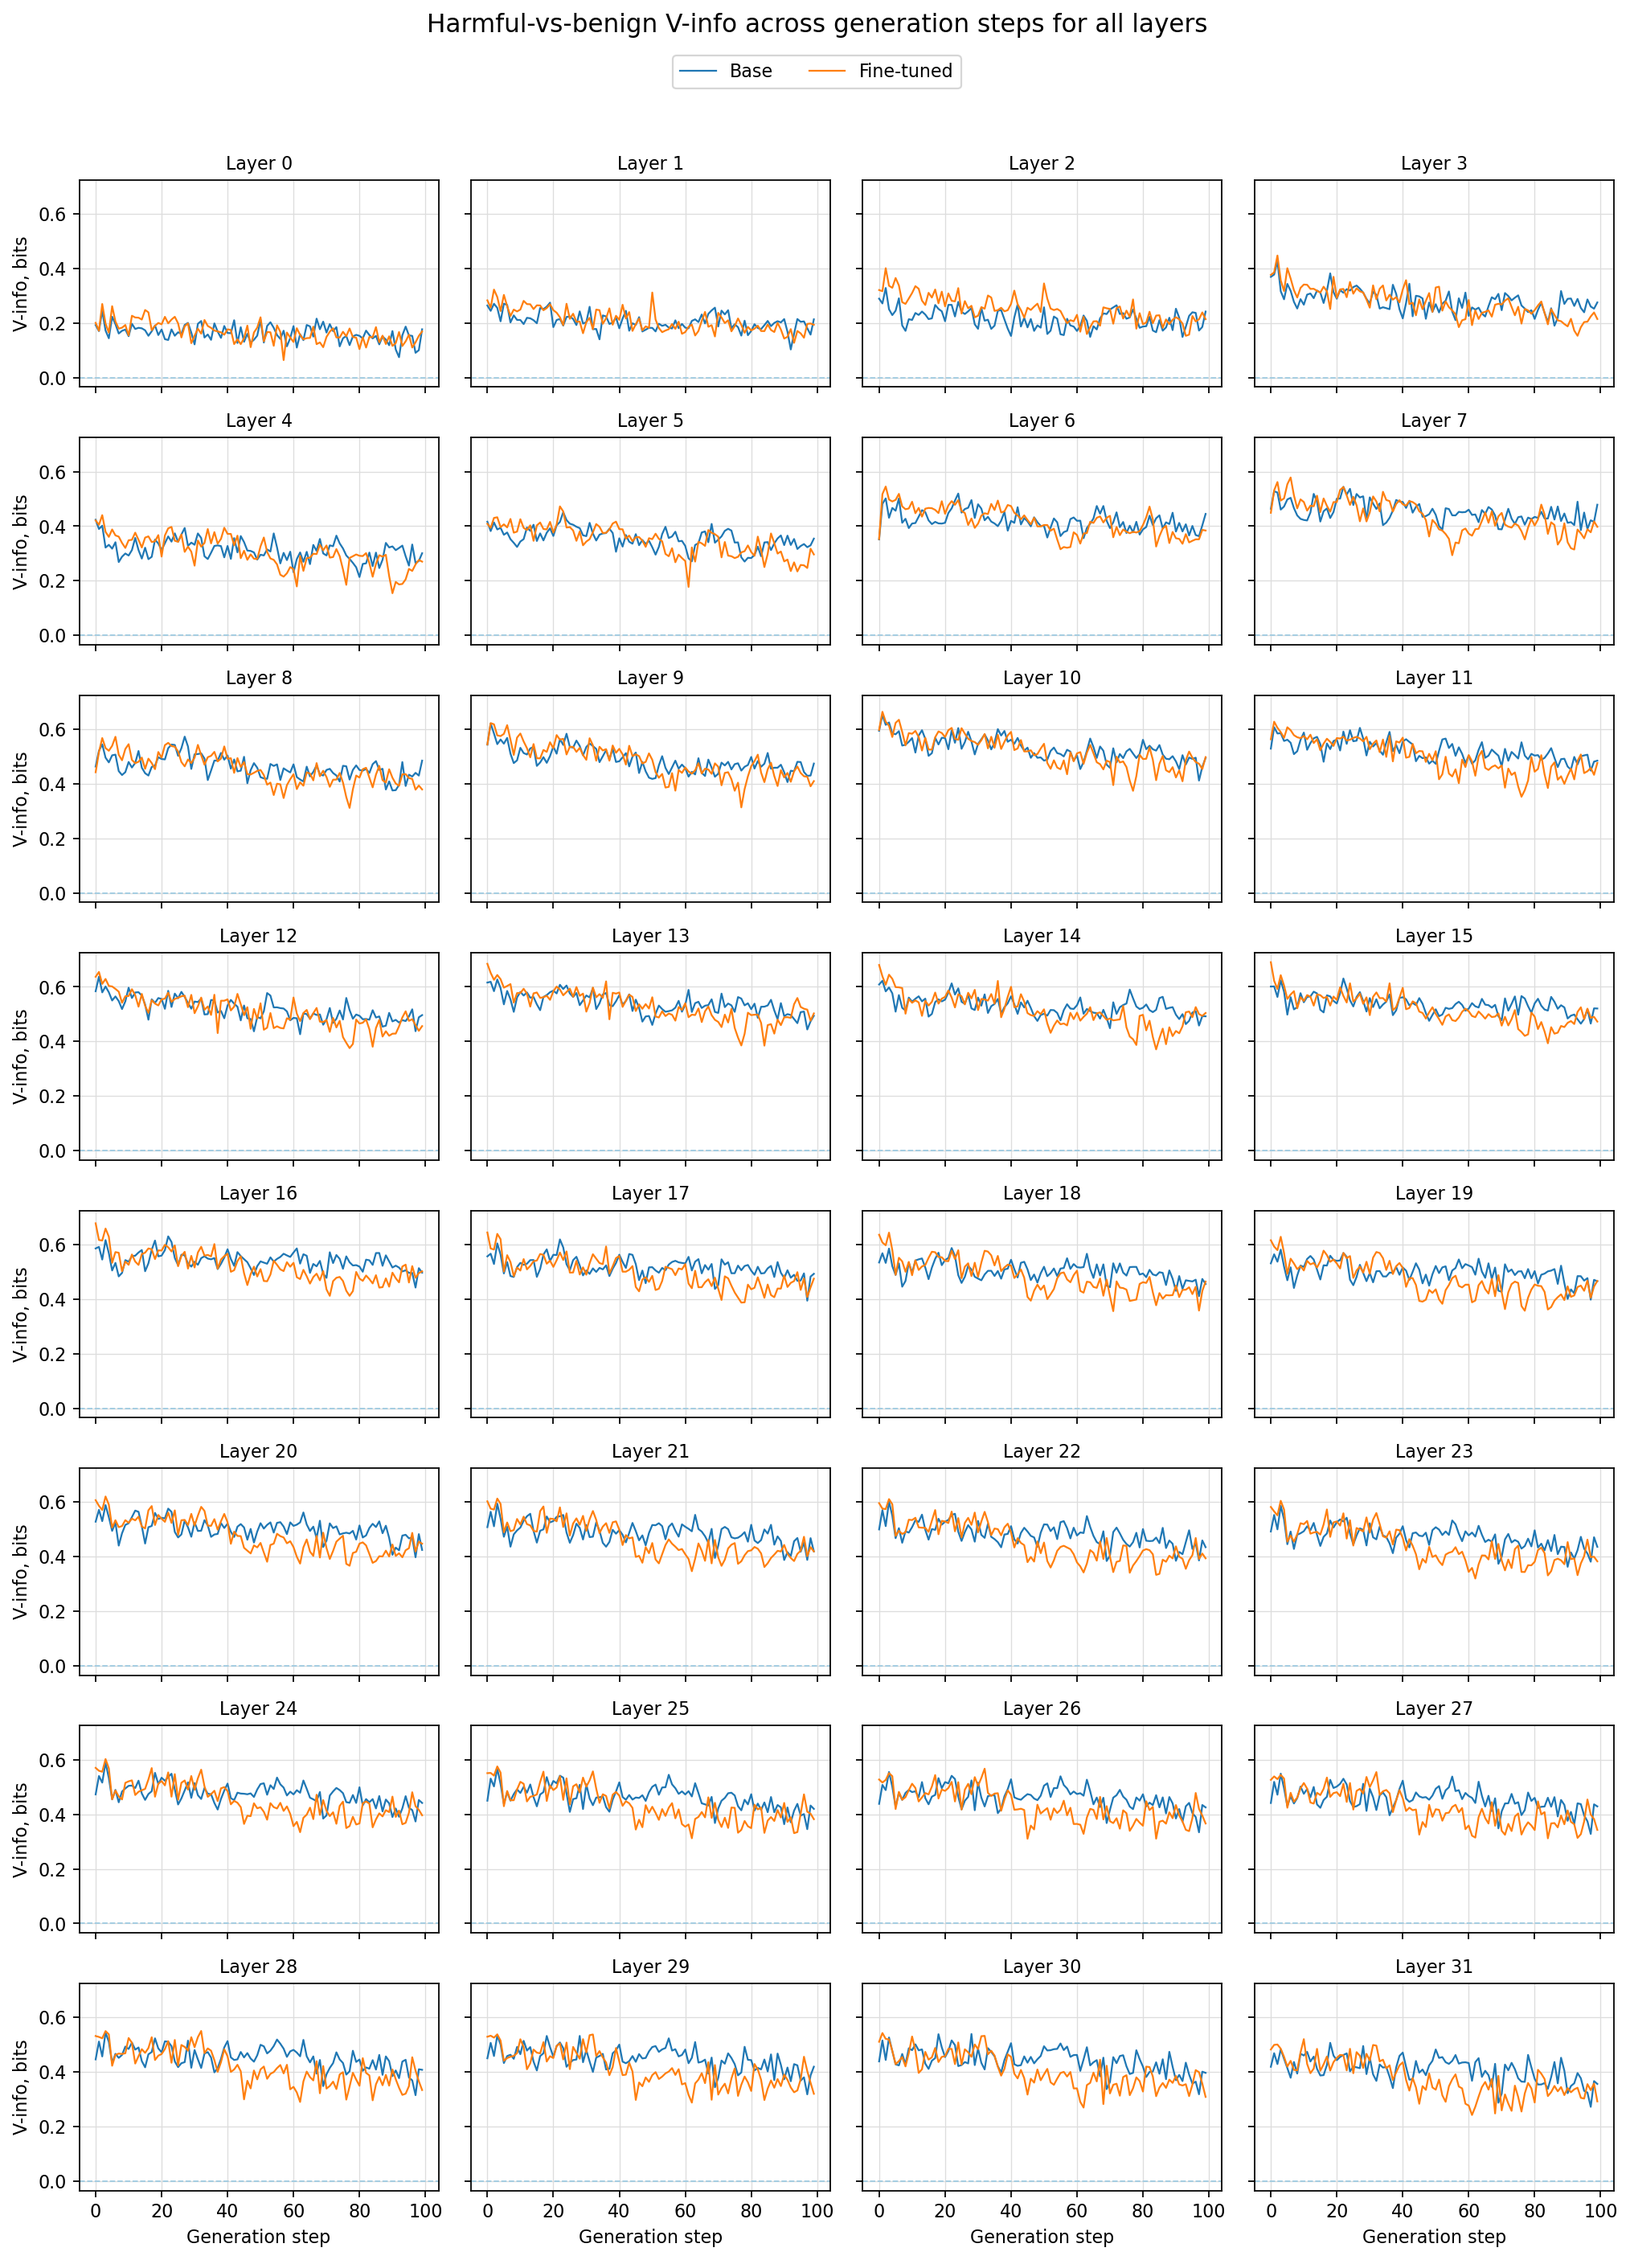
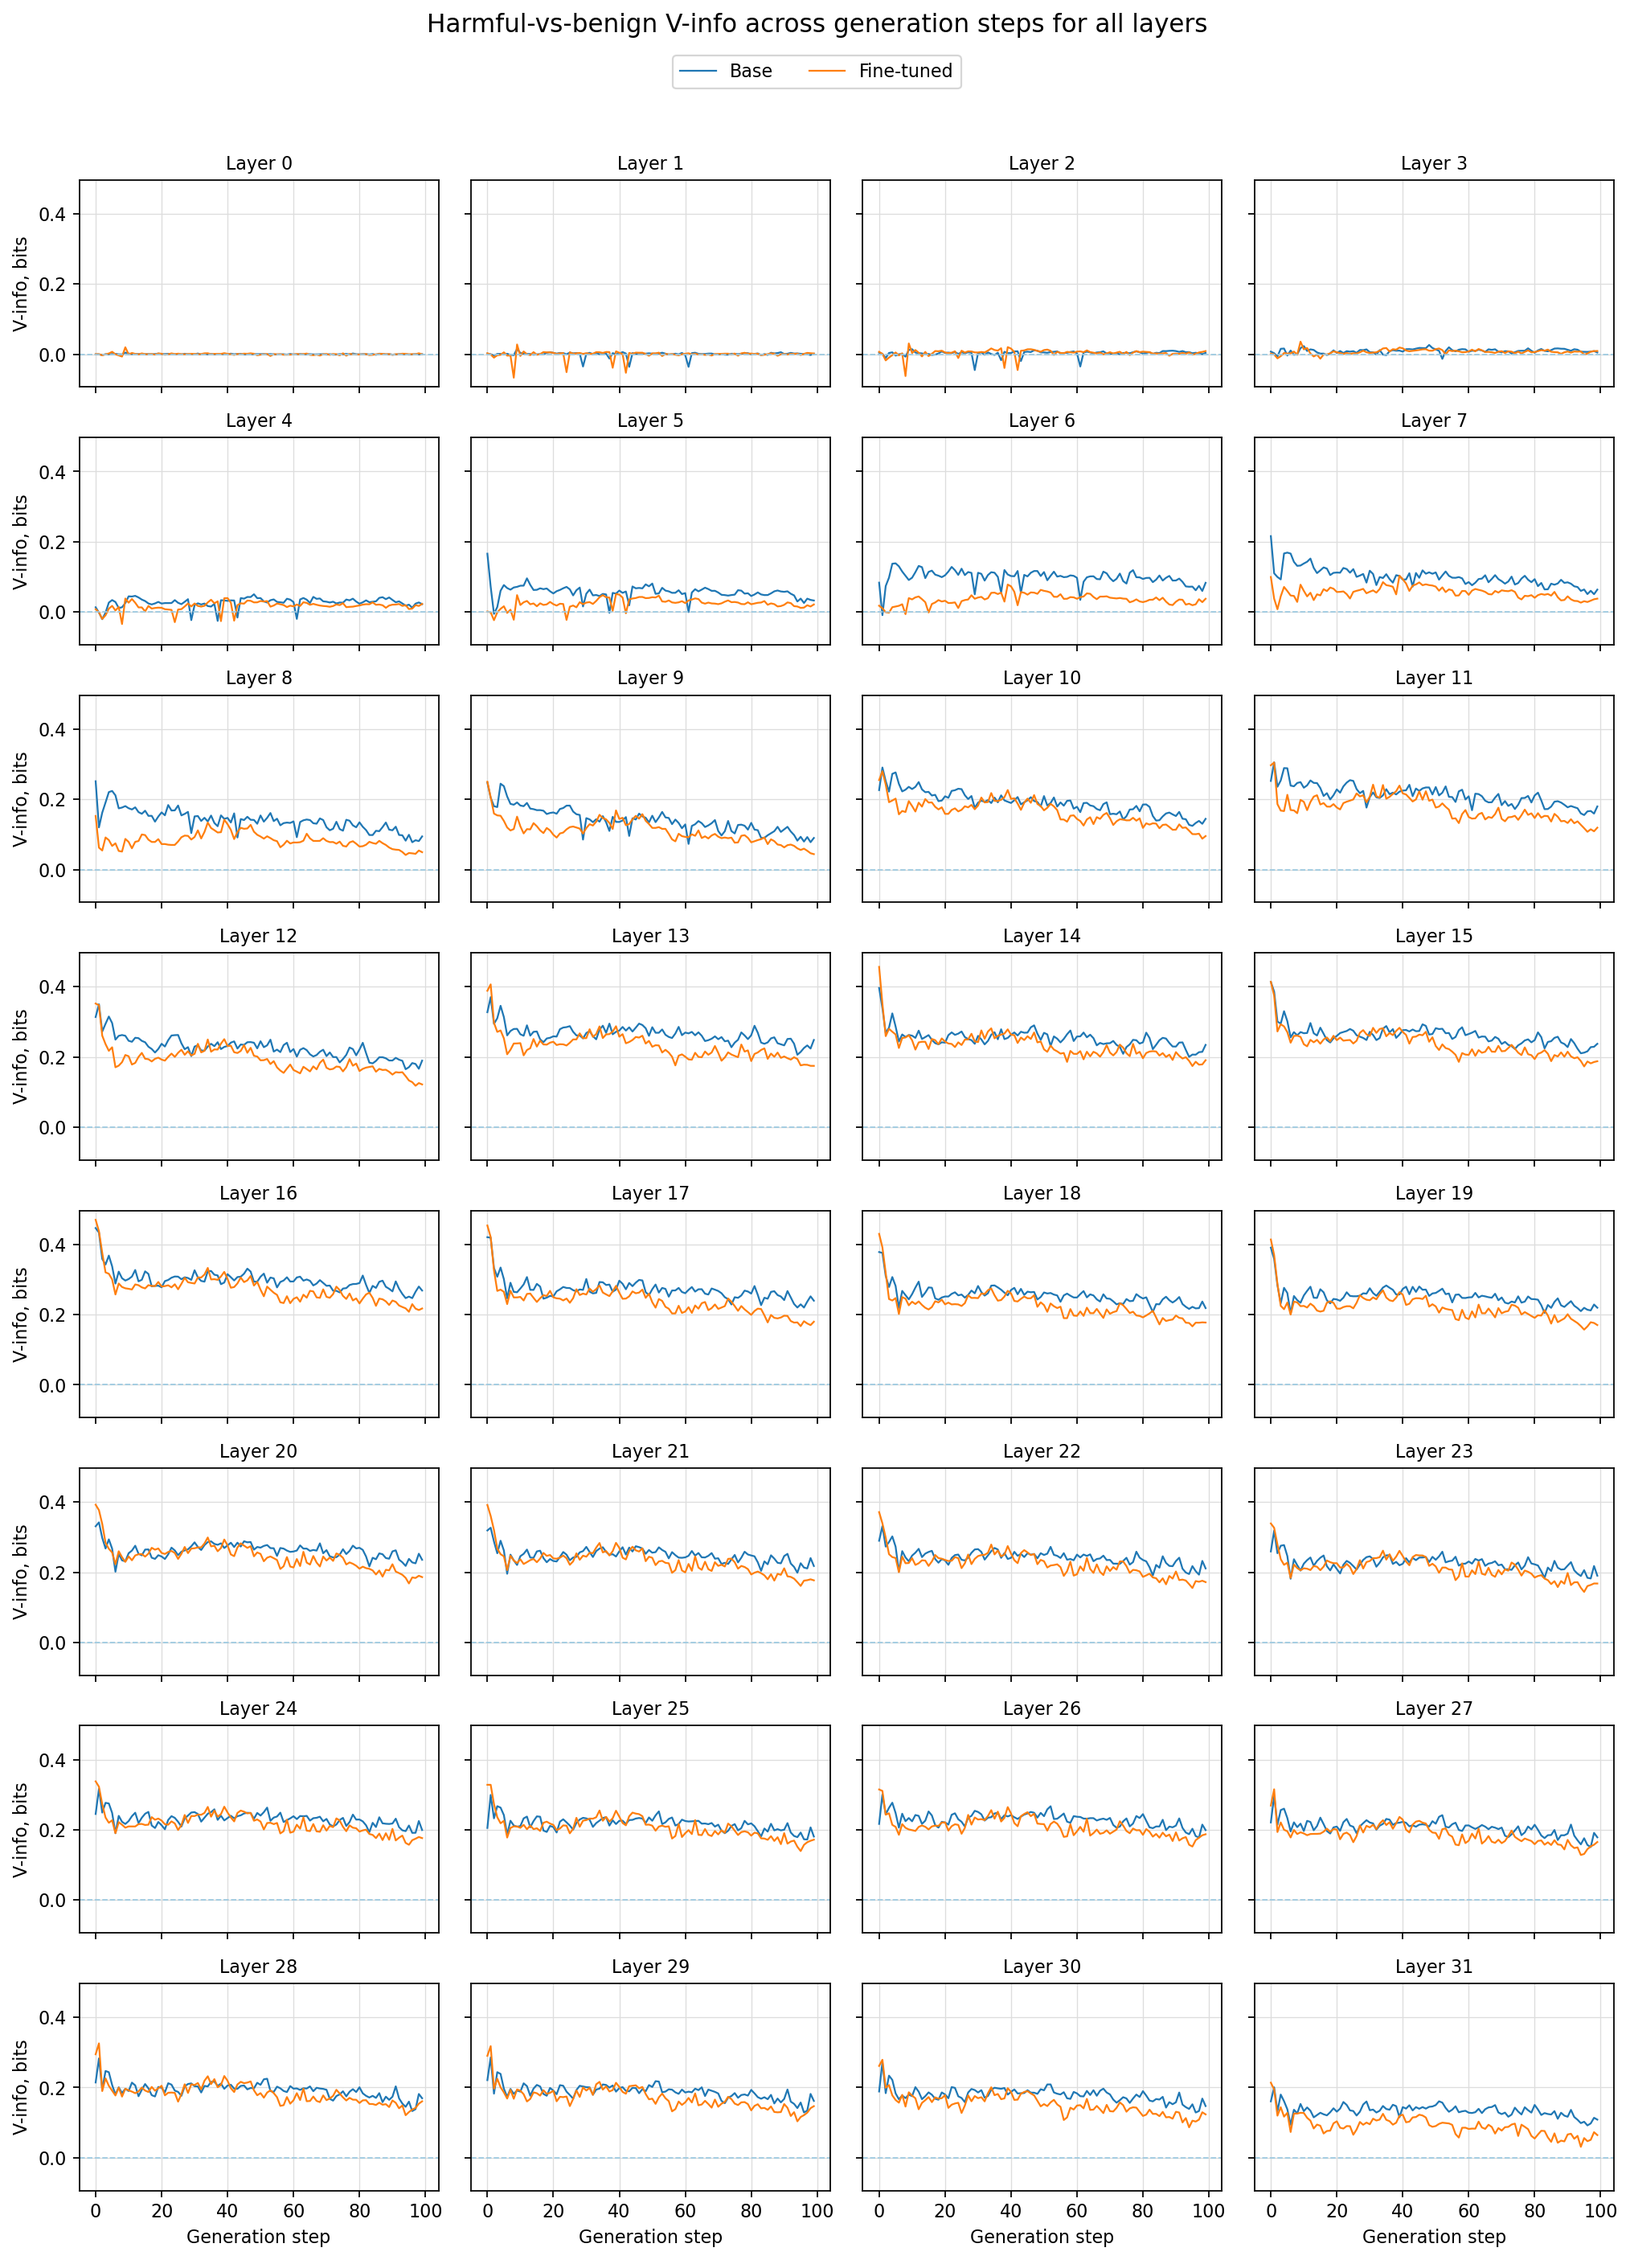
Update example figures from anti-overfitting corrected probes.
Replace Llama-2, Qwen, and Llama-3 profile grids with V-info matrices from
the corrected Task B runs so GitHub examples match the validated analysis.

diff --git a/examples/figures/README.md b/examples/figures/README.md
@@ -3,6 +3,9 @@ Reference Task B figures (``output1.png`` style):
 - ``harmful_vs_benign_vinfo_layer_profiles.png`` — one subplot per layer;
   Base (blue) vs Fine-tuned (orange) V-info across generation steps.
 
+``llama3/``, ``llama2/``, and ``qwen/`` are from anti-overfitting corrected
+probe runs (PCA + repeated grouped CV + 1-SE). FT−base difference plots are
+intentionally omitted.
+
 Heatmaps may still be produced by the probe runner as secondary artifacts;
-these multi-panel profiles are the primary examples. FT−base difference
-plots are intentionally omitted.
+these multi-panel profiles are the primary examples.
